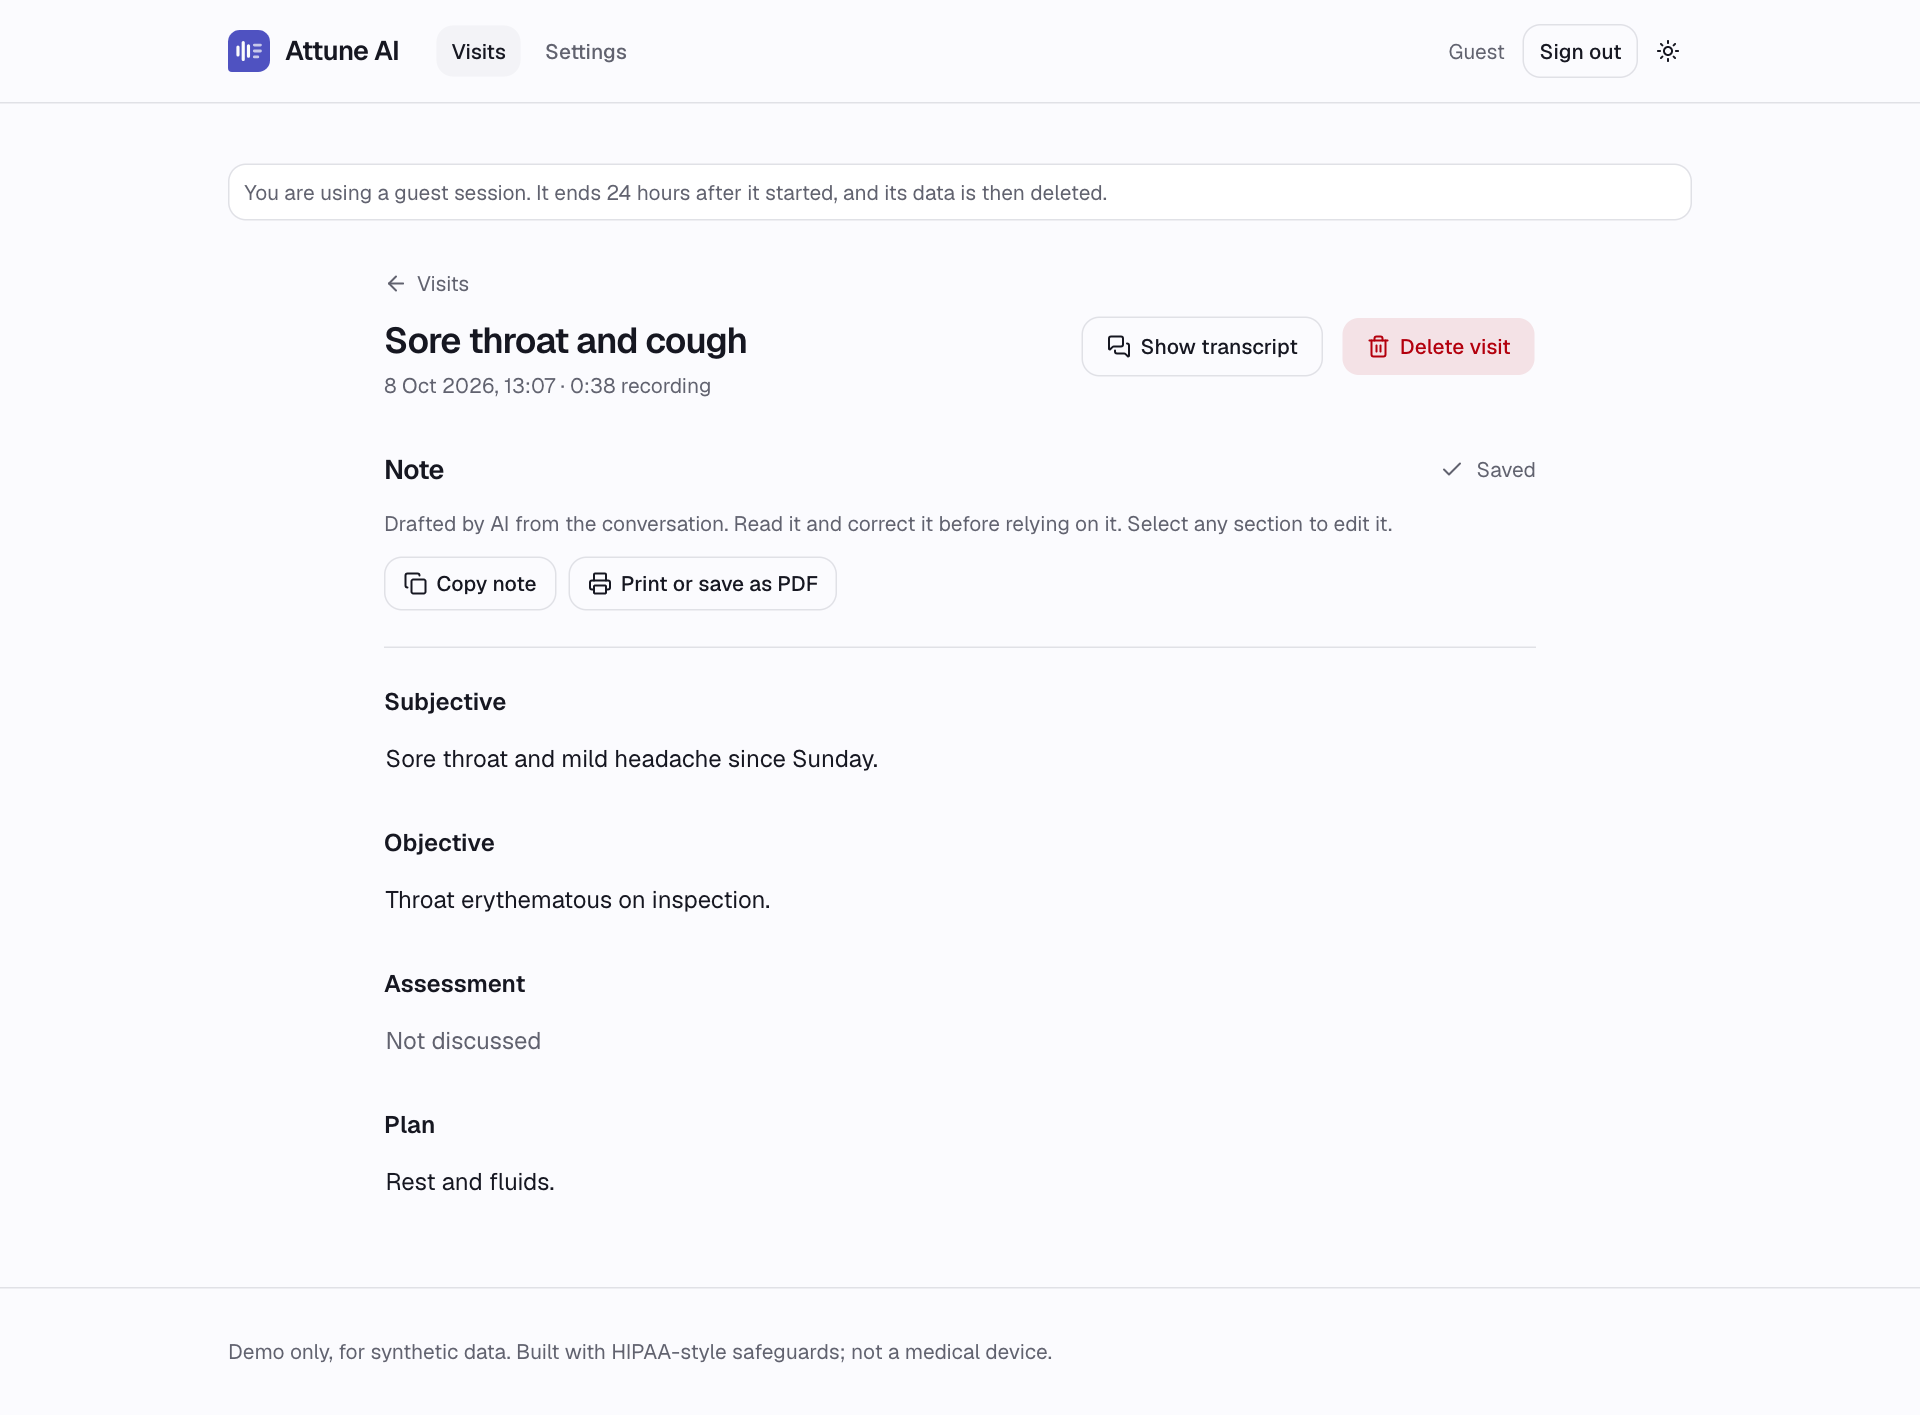
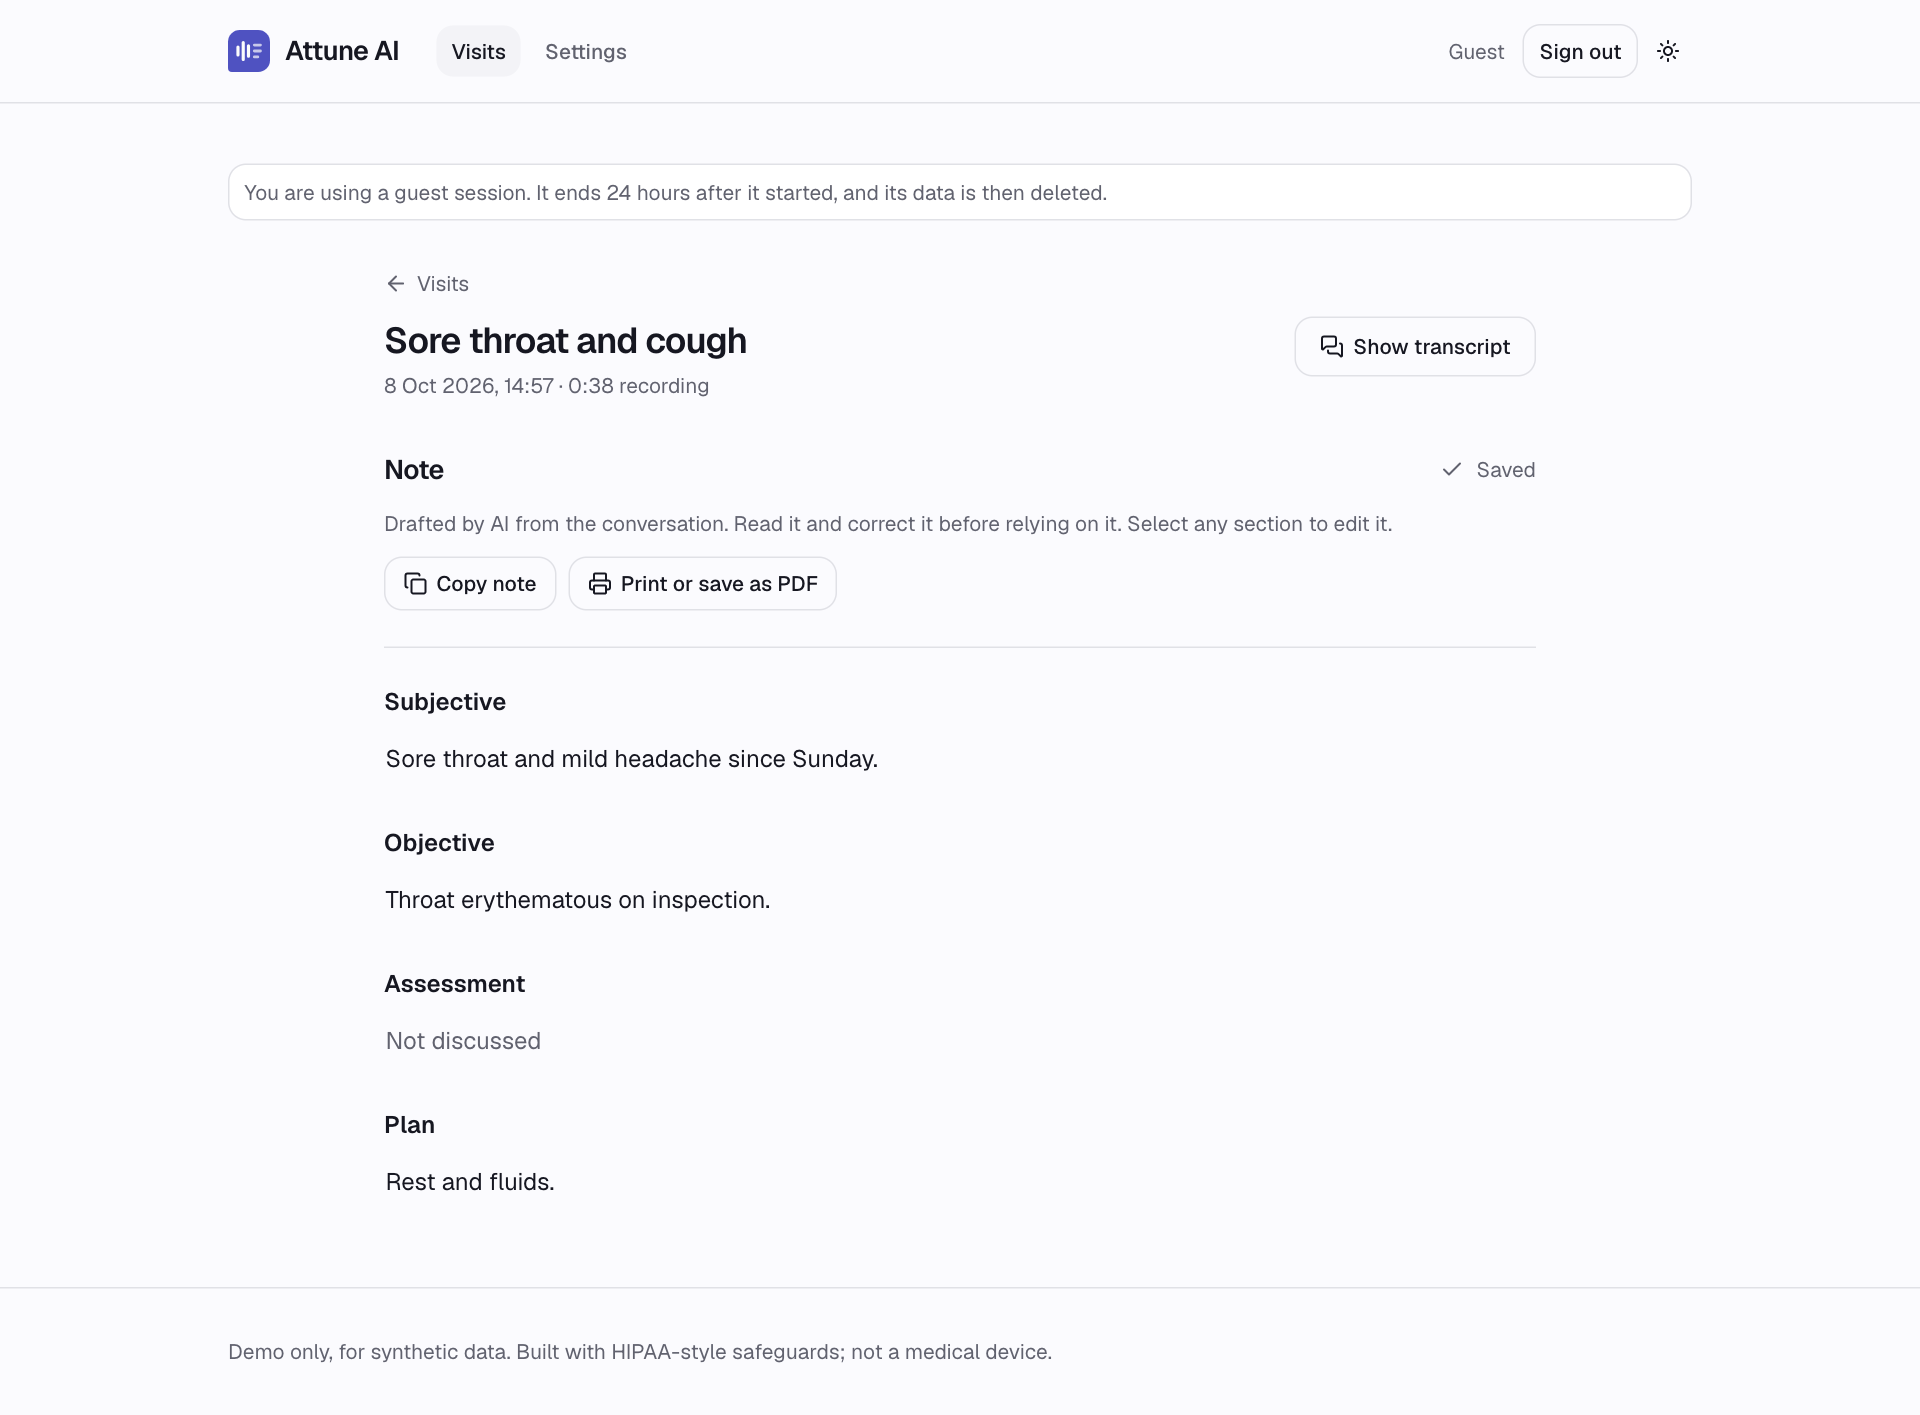
feat: update ADR 0009 to clarify visit deletion process and enhance note visibility; add new screenshots

Changed region(s): [[0.5938, 0.2177, 0.8125, 0.2799], [0.2812, 0.2488, 0.375, 0.2799]]

diff --git a/docs/adr/0009-editing-saving-and-exporting-the-note.md b/docs/adr/0009-editing-saving-and-exporting-the-note.md
@@ -27,7 +27,7 @@ Three things shape the design:
 
 **A visit page trusts the run only while it watched it happen.** If the page opens after the run has finished, it loads the visit from the API, because the run still holds the note as first drafted and edits may have been saved since.
 
-**The note is the page; the transcript is one click away.** The note reads as a plain document: four headings and their text, with no boxes around them. A section shows that it is a field when the pointer or the keyboard reaches it. A note taller than most of the screen scrolls inside the page, so its heading and actions stay in reach, and the scrollbar appears only while the pointer or the keyboard is in the note. The transcript is the longer and the more sensitive of the two texts, and it is needed only to check the note, so it stays closed until "Show transcript" is pressed and then opens in a dialog. Deleting the visit is offered next to the title, not at the foot of the page, and still takes a second, deliberate click.
+**The note is the page; the transcript is one click away.** The note reads as a plain document: four headings and their text, with no boxes around them. A section shows that it is a field when the pointer or the keyboard reaches it. A note taller than most of the screen scrolls inside the page, so its heading and actions stay in reach, and the scrollbar appears only while the pointer or the keyboard is in the note. The transcript is the longer and the more sensitive of the two texts, and it is needed only to check the note, so it stays closed until "Show transcript" is pressed and then opens in a dialog. The visit page has no way to delete the visit. That is done from the list of visits, where each row has a delete button that asks in a dialog, naming the visit, before anything is removed.
 
 **Model output is shown as text.** The transcript and the note are rendered as plain text nodes, never as markup.
 
